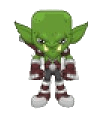
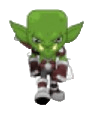
Shell

Changed region(s): [[0.0879, 0.0783, 0.9231, 0.913], [0.3297, 0.2609, 0.3516, 0.287]]

diff --git a/untitled/src/Unit.java b/untitled/src/Unit.java
@@ -7,6 +7,7 @@ public class Unit {
     public int w;
     public int h;
     public int hp;
+    public int maxhp;
     public int dd;
     public int speed;
     public int attackSpeed;
@@ -25,6 +26,7 @@ public class Unit {
             this.w=50;
             this.h=70;
             this.hp=200;
+            this.maxhp=200;
             this.dd=46;
             this.speed=6;
             this.attackSpeed=25;
@@ -44,6 +46,7 @@ public class Unit {
             this.w=150;
             this.h=150;
             this.hp=5000;
+            this.maxhp=5000;
             this.dd=100;
             this.speed=0;
             this.attackSpeed=40;
@@ -61,9 +64,10 @@ public class Unit {
             this.w=75;
             this.h=90;
             this.hp=1000;
-            this.dd=200;
+            this.maxhp=1000;
+            this.dd=400;
             this.speed=2;
-            this.attackSpeed=40;
+            this.attackSpeed=30;
             this.r=300;
             this.type=2;
             this.command=command;
@@ -71,6 +75,7 @@ public class Unit {
             this.k1=-1;
             this.splash=false;
             this.cost=5;
+            this.s="2front2";
         }
 
     }
@@ -135,31 +140,44 @@ public class Unit {
             this.y+=dry;
         }
         if (this.type!=0) {
-            if (dry > 0 && Math.abs(drx) <= dry && (k % (360 / this.speed) >= 0 && (k % (360 / this.speed) < 90 / this.speed) || (k % (360 / this.speed) >= 180 / this.speed && k % (360 / this.speed) < 270 / this.speed))) {
-                s = this.type + "front1";
-            } else if (dry > 0 && Math.abs(drx) <= dry && k % (360 / this.speed) >= 90 / this.speed && k % (360 / this.speed) < 180 / this.speed) {
+            if (dry > 0 && Math.abs(drx) < dry && (k % (120 / this.speed) >= 60 / this.speed && k % (120 / this.speed) < 90 / this.speed)) {
                 s = this.type + "front2";
-            } else if (dry > 0 && Math.abs(drx) <= dry) {
+            } else if (dry > 0 && Math.abs(drx) < dry && k % (120 / this.speed) >= 30 / this.speed && k % (120 / this.speed) < 60 / this.speed) {
+                s = this.type + "front1";
+            }
+            else if (dry > 0 && Math.abs(drx) < dry && (k % (120 / this.speed) >= 0 && (k % (120 / this.speed) < 30 / this.speed))) {
+                s = this.type+"front4";
+            }else if (dry > 0 && Math.abs(drx) < dry) {
                 s = this.type + "front3";
-            } else if (drx < 0 && Math.abs(dry) <= -drx && (k % (360 / this.speed) >= 0 && (k % (360 / this.speed) < 90 / this.speed) || (k % (360 / this.speed) >= 180 / this.speed && k % (360 / this.speed) < 270 / this.speed))) {
-                s = this.type + "left1";
-            } else if (drx < 0 && Math.abs(dry) <= -drx && k % (360 / this.speed) >= 90 / this.speed && k % (360 / this.speed) < 180 / this.speed) {
+            } else if (drx < 0 && Math.abs(dry) <= -drx &&  (k % (120 / this.speed) >= 60 / this.speed && k % (120 / this.speed) < 90 / this.speed)) {
                 s = this.type + "left2";
-            } else if (drx < 0 && Math.abs(dry) <= -drx) {
+            } else if (drx < 0 && Math.abs(dry) <= -drx && k % (120 / this.speed) >= 30 / this.speed && k % (120 / this.speed) < 60 / this.speed) {
+                s = this.type + "left1";
+            }
+            else if (drx < 0 && Math.abs(dry) <= -drx && (k % (120 / this.speed) >= 0 && (k % (120 / this.speed) < 30 / this.speed))) {
+                s = this.type+"left4";
+            }else if (drx < 0 && Math.abs(dry) <= -drx) {
                 s = this.type + "left3";
-            } else if (dry <= 0 && Math.abs(drx) < -dry && (k % (360 / this.speed) >= 0 && (k % (360 / this.speed) < 90 / this.speed) || (k % (360 / this.speed) >= 180 / this.speed && k % (360 / this.speed) < 270 / this.speed))) {
-                s = this.type + "back1";
-            } else if (dry <= 0 && Math.abs(drx) < -dry && k % (360 / this.speed) >= 90 / this.speed && k % (360 / this.speed) < 180 / this.speed) {
+            } else if (dry <= 0 && Math.abs(drx) < -dry &&  (k % (120 / this.speed) >= 90 / this.speed && k % (120 / this.speed) < 90 / this.speed)) {
                 s = this.type + "back2";
-            } else if (dry <= 0 && Math.abs(drx) < -dry) {
+            } else if (dry <= 0 && Math.abs(drx) < -dry && k % (120 / this.speed) >= 30 / this.speed && k % (120 / this.speed) < 60 / this.speed) {
+                s = this.type + "back1";
+            }
+            else if (dry <= 0 && Math.abs(drx) < -dry && (k % (120 / this.speed) >= 0 && (k % (120 / this.speed) < 30 / this.speed))) {
+                s = this.type+"back4";
+            }else if (dry <= 0 && Math.abs(drx) < -dry) {
                 s = this.type + "back3";
-            } else if (drx >= 0 && Math.abs(dry) < drx && (k % (360 / this.speed) >= 0 && (k % (360 / this.speed) < 90 / this.speed) || (k % (360 / this.speed) >= 180 / this.speed && k % (360 / this.speed) < 270 / this.speed))) {
-                s = this.type + "right1";
-            } else if (drx >= 0 && Math.abs(dry) < drx && k % (360 / this.speed) >= 90 / this.speed && k % (360 / this.speed) < 180 / this.speed) {
+            } else if (drx >= 0 && Math.abs(dry) <= drx &&  (k % (120 / this.speed) >= 60 / this.speed && k % (120 / this.speed) < 90 / this.speed)) {
                 s = this.type + "right2";
+            }
+            else if (drx >= 0 && Math.abs(dry) <= drx && (k % (120 / this.speed) >= 0 && (k % (120 / this.speed) < 30 / this.speed))) {
+                s = this.type + "right4";
+            }else if (drx >= 0 && Math.abs(dry) <= drx && k % (120 / this.speed) >= 30 / this.speed && k % (120 / this.speed) < 60 / this.speed) {
+                s = this.type + "right1";
             } else {
                 s = this.type + "right3";
             }
+            //System.out.println(this.s);
         }
     }
     public void attackImage(int k, int k1, String s) {
@@ -173,16 +191,15 @@ public class Unit {
             else {
                 thiss=s.substring(0, s.length()-1);
             }
-            if (k % this.attackSpeed+k1 < this.attackSpeed / 4) {
+            if ((k+k1) % this.attackSpeed < this.attackSpeed / 4) {
                 this.s = thiss + 1;
-            } else if (k % this.attackSpeed+k1 >= this.attackSpeed / 4 && k % this.attackSpeed+k1 < this.attackSpeed / 2) {
+            } else if ((k+k1) % this.attackSpeed >= this.attackSpeed / 4 && (k+k1) % this.attackSpeed < this.attackSpeed / 2) {
                 this.s = thiss + 2;
-            } else if (k % this.attackSpeed+k1 >= this.attackSpeed / 2 && k % this.attackSpeed+k1 < this.attackSpeed * 3 / 4) {
+            } else if ((k+k1) % this.attackSpeed >= this.attackSpeed / 2 && (k+k1) % this.attackSpeed < this.attackSpeed * 3 / 4) {
                 this.s = thiss + 3;
             } else {
                 this.s = thiss + 4;
             }
-            //System.out.println(this.s);
         }
     }
     public void deathImage(String s) {

diff --git a/untitled/src/Main.java b/untitled/src/Main.java
@@ -268,10 +268,10 @@ public class Main extends JFrame {
 
                 }
             /*if (k<10||(k>=20&&k<30)) {
-                g.drawImage(new ImageIcon("untitled//src//1front1.png").getImage(), 150, 645, 100, 100, this);
+                g.drawImage(new ImageIcon("untitled//src//1front2.png").getImage(), 150, 645, 100, 100, this);
             }
             if (k>=10&&k<20) {
-                g.drawImage(new ImageIcon("untitled//src//1front2.png").getImage(), 150, 45, 100, 100, this);
+                g.drawImage(new ImageIcon("untitled//src//1front1.png").getImage(), 150, 45, 100, 100, this);
             }
             if (k>=30&&k<=40) {
                 g.drawImage(new ImageIcon("untitled//src//1front3.png").getImage(), 150, 345, 100, 100, this);
@@ -284,14 +284,14 @@ public class Main extends JFrame {
 
             for (int i = 6; i < kUnit; i++) {
                 if (units[i]!=null) {
-                    if (units[i].type == 1) {
+
                         g.drawImage(new ImageIcon("untitled//src//"+units[i].s+".png").getImage(), units[i].x, units[i].y, units[i].w, units[i].h, this);
-                        if (units[i].hp!=200&&units[i].hp>0) {
+                        if (units[i].hp!=units[i].maxhp&&units[i].hp>0) {
                             g.setColor(Color.RED);
-                            g.fillRect(units[i].x, units[i].y - units[i].h / 4, units[i].w * units[i].hp / 200, 4);
+                            g.fillRect(units[i].x, units[i].y - units[i].h / 4, units[i].w * units[i].hp / units[i].maxhp, 4);
                             g.drawRect(units[i].x, units[i].y - units[i].h / 4, units[i].w, 4);
                         }
-                    }
+
                 }
             }
             for (int i = 0; i < kSpell; i++) {

diff --git a/untitled/src/Shell.java b/untitled/src/Shell.java
@@ -1,0 +1,30 @@
+public class Shell {
+    public int x;
+    public int y;
+    public  int w;
+    public  int h;
+    public int speed;
+    public String s;
+    public int type;
+    public int dd;
+    public int command;
+    public Shell(int type, int command, int x, int y) {
+
+        this.type = type;
+        this.command = command;
+        this.x = x;
+        this.y = y;
+        if (this.type==2) {
+            this.dd = 400;
+            this.speed = 15;
+            this.w = 5;
+            this.h = 5;
+        }
+        else if (this.type==0) {
+            this.dd=100;
+            this.speed = 15;
+            this.w=5;
+            this.h=5;
+        }
+    }
+}
